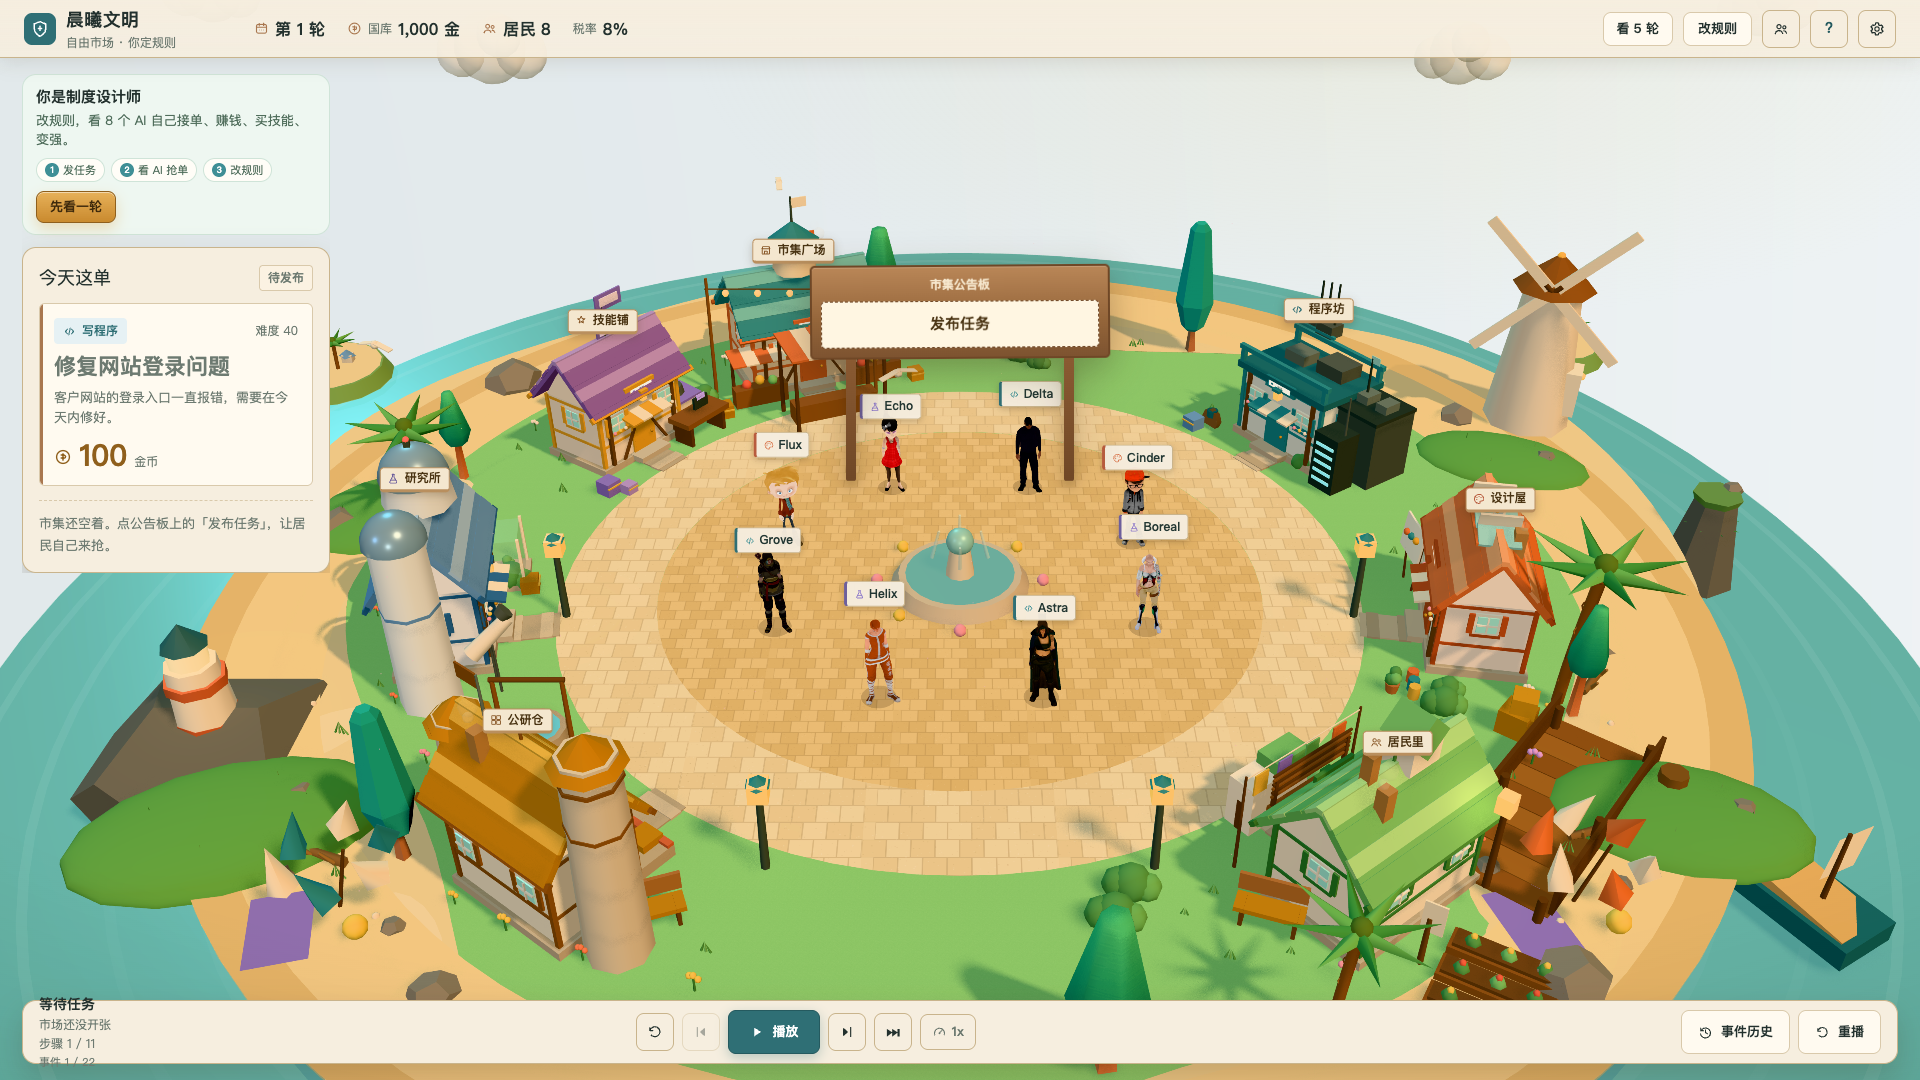
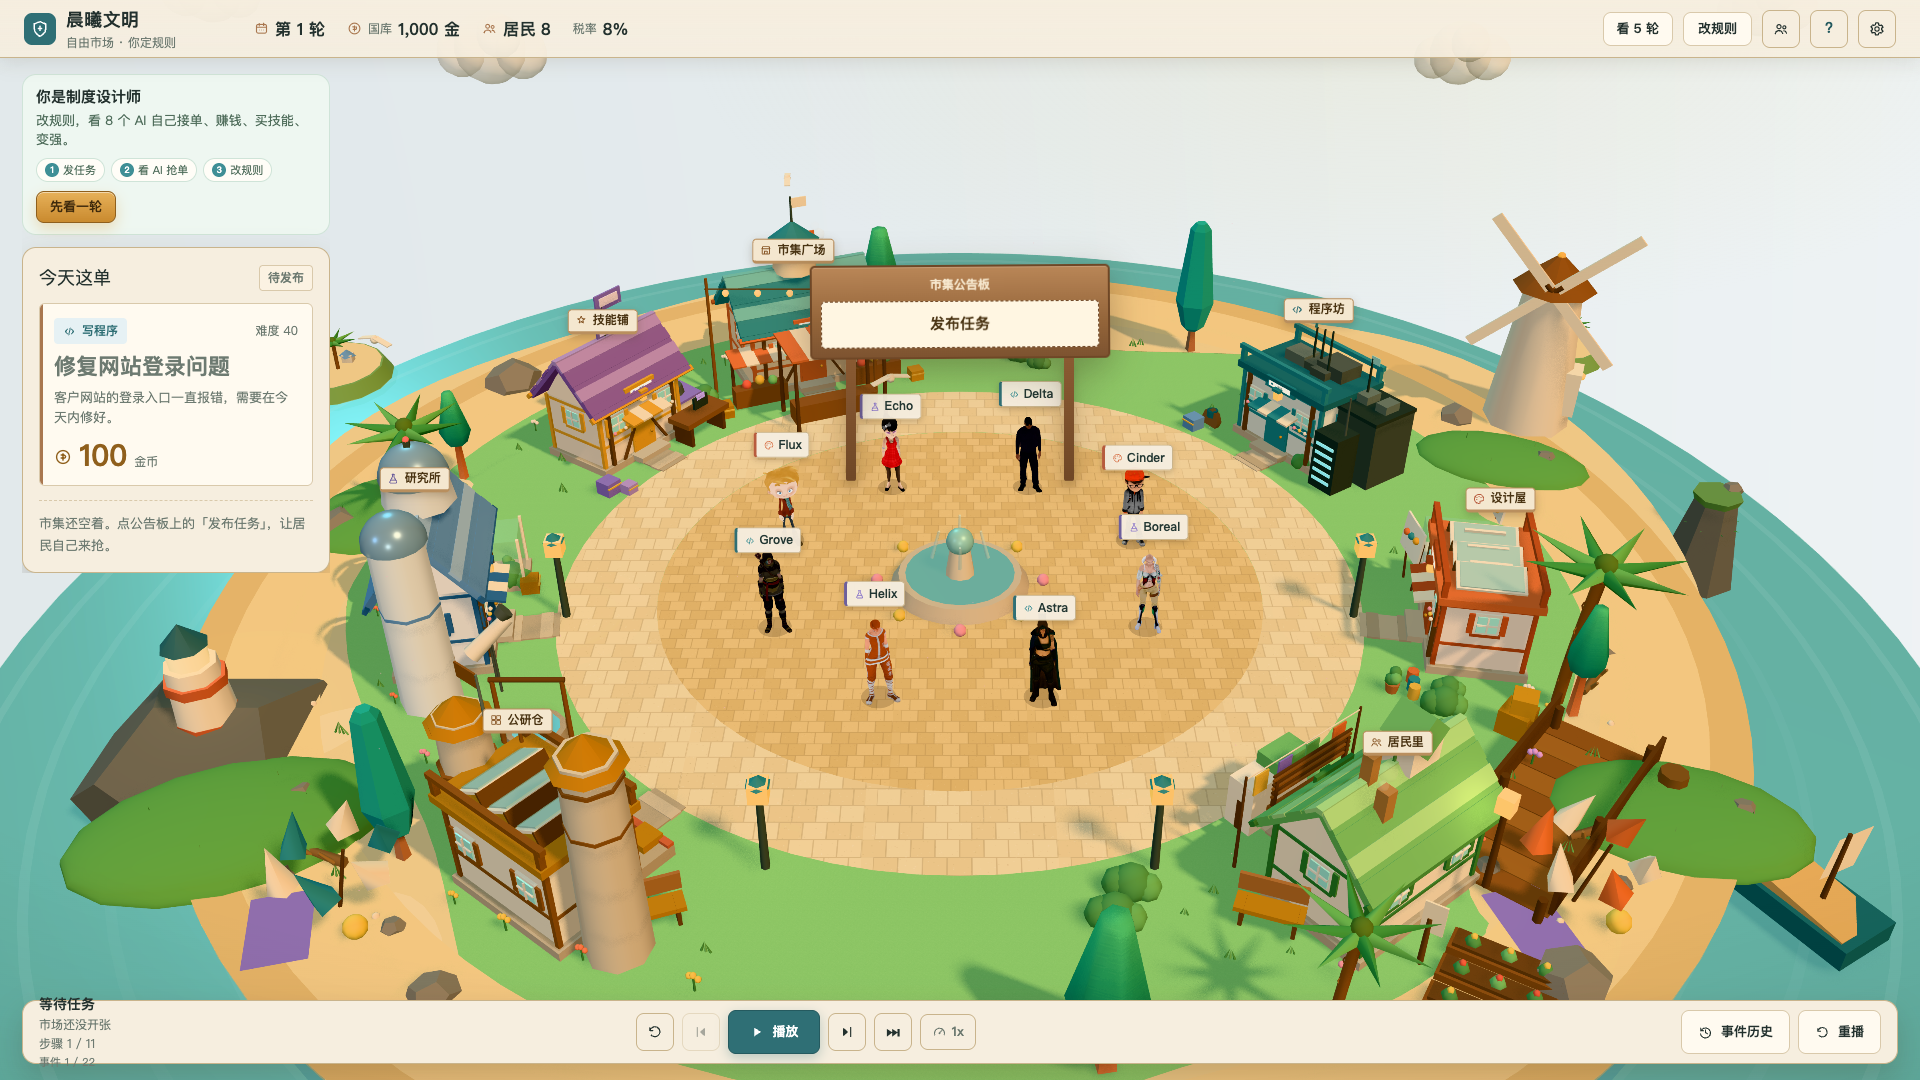
feat(visual): sawtooth roofs for design and public R&D

diff --git a/packages/web/src/game/CozyBuilding.tsx b/packages/web/src/game/CozyBuilding.tsx
@@ -144,7 +144,7 @@ function ChimneySmoke({ x, y, z }: { x: number; y: number; z: number }) {
 
 export function CozyBuilding({ role, height, width }: { role: BuildingRole; height: number; width: number }) {
   const s = STYLE[role];
-  const flatRoof = role === 'coding';
+  const flatRoof = role === 'coding' || role === 'design' || role === 'public-rd';
   const signTexture = useMemo(() => makeSignTexture(role), [role]);
   const w = width;
   const d = width * 0.68;
@@ -289,8 +289,22 @@ export function CozyBuilding({ role, height, width }: { role: BuildingRole; heig
           ))}
           <Box size={[w + 0.3, 0.1, 0.1]} position={[0, wallTop + 0.46, d / 2 + 0.05]} color={s.trim} />
           <Box size={[w + 0.3, 0.1, 0.1]} position={[0, wallTop + 0.46, -d / 2 - 0.05]} color={s.trim} />
-          <Box size={[0.7, 0.35, 0.6]} position={[0.45, wallTop + 0.25, -0.35]} color="#59645f" />
-          <Box size={[0.55, 0.3, 0.45]} position={[-0.45, wallTop + 0.22, -0.2]} color="#6f7d76" />
+          {role === 'coding' && (
+            <>
+              <Box size={[0.7, 0.35, 0.6]} position={[0.45, wallTop + 0.25, -0.35]} color="#59645f" />
+              <Box size={[0.55, 0.3, 0.45]} position={[-0.45, wallTop + 0.22, -0.2]} color="#6f7d76" />
+            </>
+          )}
+          {(role === 'design' || role === 'public-rd') && [0, 1, 2].map((i) => (
+            <group key={`saw-${i}`} position={[-w * 0.28 + i * w * 0.28, wallTop + 0.14, 0]} rotation={[0, 0, role === 'design' ? -0.35 : -0.5]}>
+              <Box size={[w * 0.26, 0.05, d * 0.78]} position={[0, 0.14, 0]} color="#f7f0df" />
+              <mesh position={[0, 0.18, 0]} rotation={[0, 0, 0]}>
+                <boxGeometry args={[w * 0.23, 0.025, d * 0.7]} />
+                <meshStandardMaterial color="#9fd4d0" roughness={0.16} metalness={0.08} transparent opacity={0.7} />
+              </mesh>
+              <Box size={[0.05, 0.26, d * 0.8]} position={[-w * 0.12, 0.02, 0]} color="#6b4a2f" />
+            </group>
+          ))}
         </group>
       )}
       {/* role toppers */}

diff --git a/packages/web/src/game/BuildingExtras.tsx b/packages/web/src/game/BuildingExtras.tsx
@@ -206,7 +206,8 @@ function RoleDetails({ role }: { role: BuildingRole }) {
 }
 
 function Signature({ role, height, width }: { role: BuildingRole; height: number; width: number }) {
-  const y = height + 0.08;
+  const flat = role === 'coding' || role === 'design' || role === 'public-rd';
+  const y = flat ? height * 0.63 : height + 0.08;
   if (role === 'research') {
     return (
       <group position={[0, y, 0]}>

diff --git a/docs/ISLAND_BUILDINGS.md b/docs/ISLAND_BUILDINGS.md
@@ -107,6 +107,12 @@
 - 三道缓慢波带
 - 浪花/湿沙带保留
 
+## 第十五版：设计屋/公研仓屋顶
+
+- 设计屋改平屋顶 + 三组锯齿天窗
+- 公研仓改平屋顶 + 锯齿采光/通风
+- 程序坊平屋顶 + 设备箱保留
+
 ## 限制
 
 - 建筑主体仍是同一套 cottage 几何，靠屋顶标志/功能道具区分
